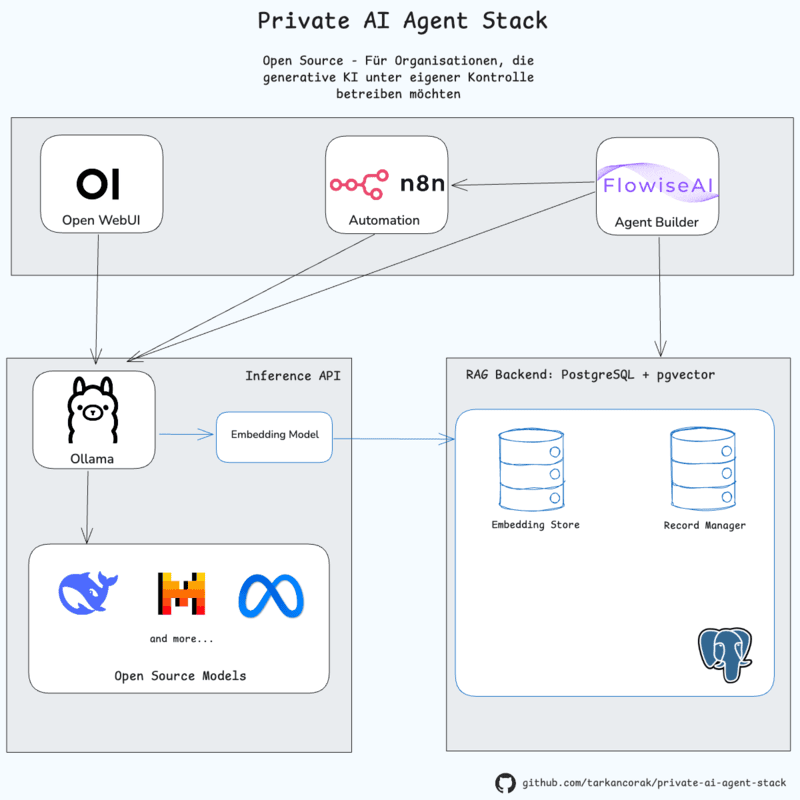
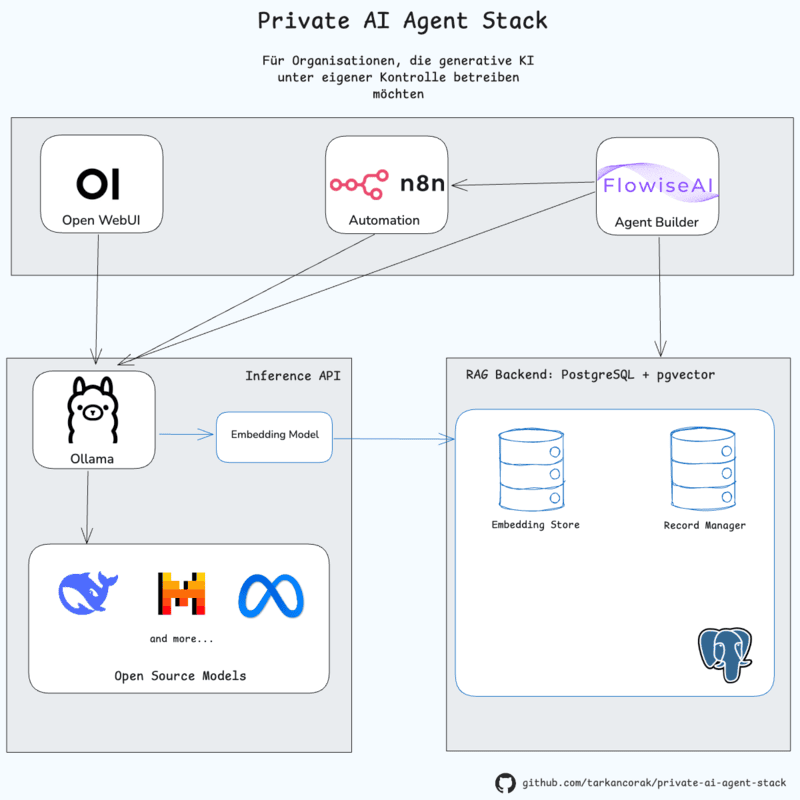
Adjust open-source terminology

Changed region(s): [[0.3125, 0.0625, 0.6875, 0.125], [0.1562, 0.4375, 0.1875, 0.4688]]

diff --git a/README.md b/README.md
@@ -1,6 +1,6 @@
 # Private AI Agent Stack
 
-Ein modularer Stack für private, generative KI-Agentensysteme – containerisiert, lokal betreibbar und vollständig Open-Source.
+Ein modularer Stack für private, generative KI-Agentensysteme – containerisiert, lokal betreibbar und größtenteils Open-Source.
 
 Dieser Stack richtet sich an Organisationen und Entwickler:innen, die generative KI unter eigener Kontrolle einsetzen möchten – lokal, on-premise oder in einer selbstverwalteten Cloud. Der Stack bietet volle Kontrolle über Datenflüsse und schafft maximale Flexibilität durch offene Standards.
 
@@ -174,7 +174,7 @@ Ollama eignet sich hervorragend für den lokalen Einsatz und schnelle Entwicklun
 
 ## Warum dieser Stack?
 
-Der Stack ist flexibel, skalierbar und lässt sich schnell an neue Anforderungen anpassen. Die Kombination aus Low-Code-Plattform und vollständig Open-Source-basierter Architektur macht den Stack vielseitig einsetzbar und zukunftssicher:
+Der Stack ist flexibel, skalierbar und lässt sich schnell an neue Anforderungen anpassen. Die Kombination aus Low-Code-Plattform und größtenteils Open-Source-basierter Architektur macht den Stack vielseitig einsetzbar und zukunftssicher:
 
 - Schnell einsetzbar – ideal für interne Tests, Proof-of-Concepts und erste agentenbasierte Workflows.
 - Modular & portabel – alle Komponenten laufen containerisiert und können einzeln skaliert werden.
